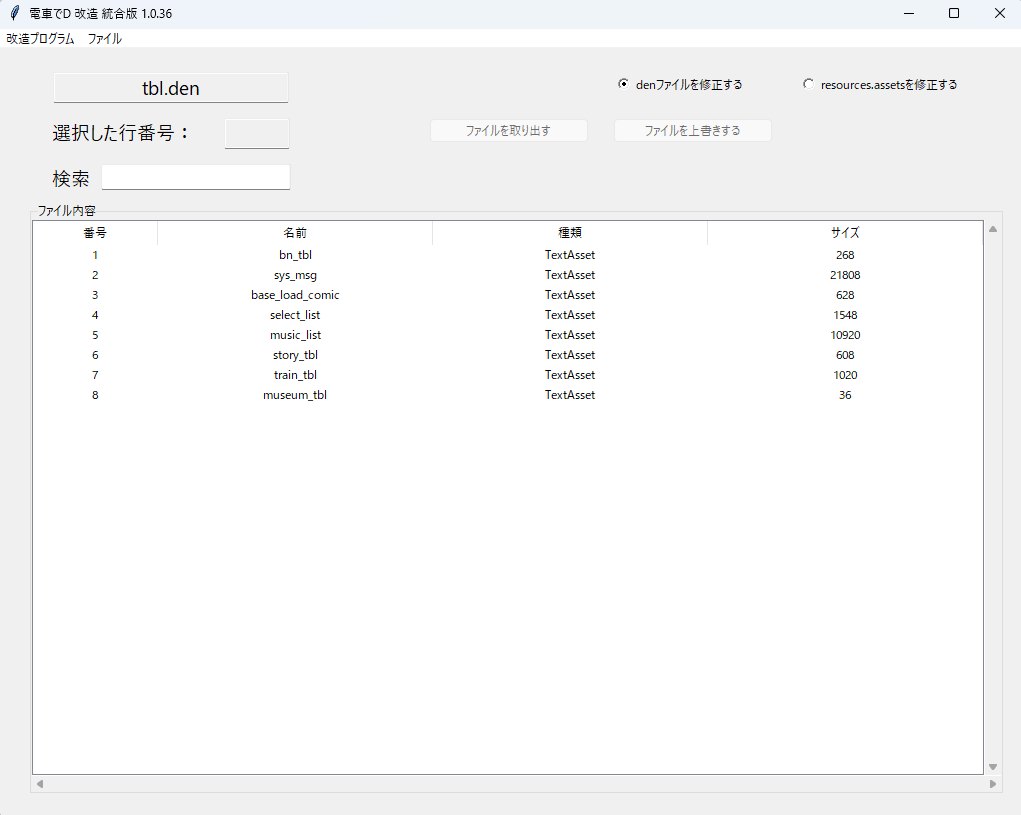
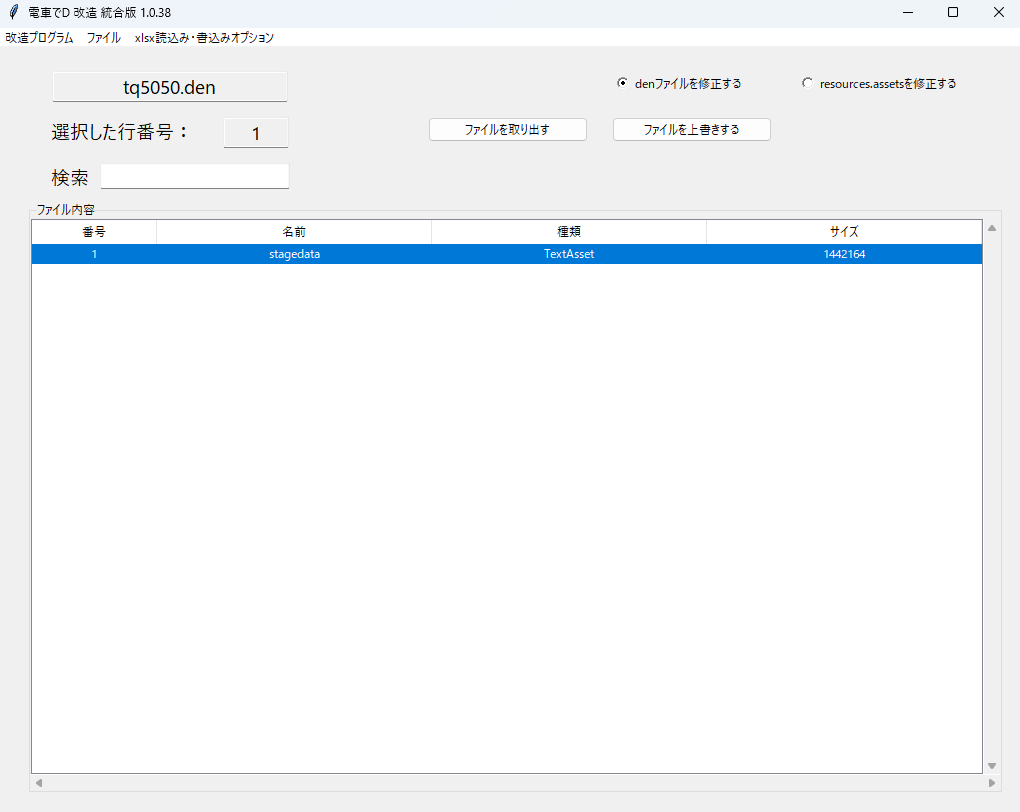
update

diff --git a/program/ssUnity/README.md b/program/ssUnity/README.md
@@ -18,6 +18,12 @@
 
 ファイルがstagedataの場合、エクセルで取り出し、上書きすることもできる。
 
+また、stagedataをエクセルで取り出す場合、
+
+いくつかのエラーや注意する要素をチェックできる。
+
+<br>
+
 ただし、現状、依存しているライブラリUnityPyでは
 
 TextAssetしか上書きができない。
@@ -28,6 +34,18 @@ TextAssetしか上書きができない。
 
 検索ボックスにキーワードを入力することで、名前と部分一致するデータをフィルターできる。
 
+
+### xlsx読込み・書込みオプション
+
+![xlsxOptions](image/xlsxOptions.png)
+
+エクセルで取り出す・上書きする際にオプションを選択できる。
+
+* モデルを名称として出力、あるいは絶対値のindexで出力する。
+
+* フラグの要素を10進数で、あるいは16進数で出力・入力する。
+
+* AMBの出力結果を、AMBモデルの情報単位で改行、あるいは全部１行で出力・入力する。
 
 ![title](image/assets.png)
 
